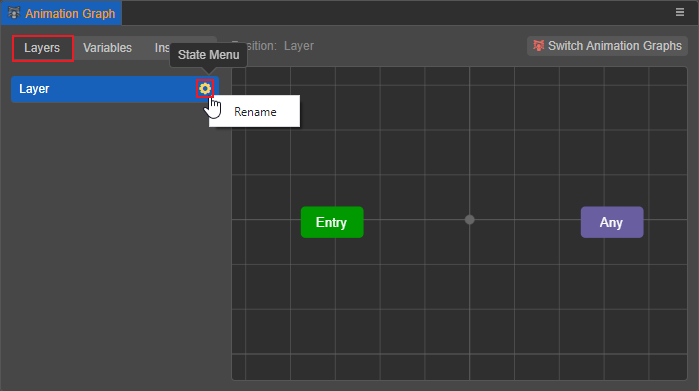
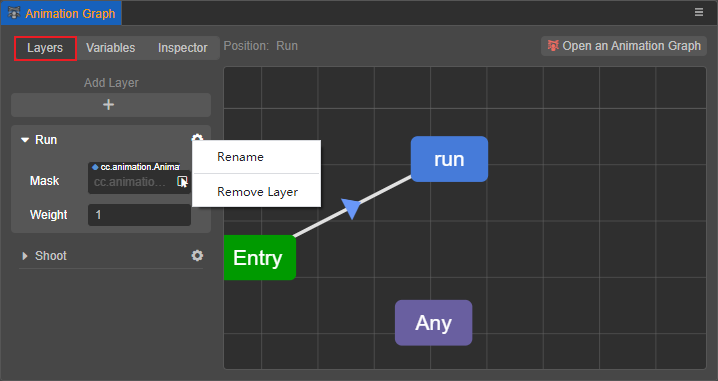
动画遮罩和层级

diff --git a/zh/animation/marionette/animation-graph-layer.md b/zh/animation/marionette/animation-graph-layer.md
@@ -1,40 +1,88 @@
-
 # 动画图层级
 
 动画图可以有多个层级，层级之间同时运行，其上播放的动画效果可以根据层级的配置进行混合。
 
 ## 创建层级
 
-TODO
+![add-layer](animation-graph-panel/add-layer.png)
+
+在动画图中点击 **层级（Layers）** 按钮，点击 ![add layer](animation-graph-panel/btn-add-layer.png) 按钮可以创建新的层级。
+
+## 层级菜单
+
+![Layers](animation-graph-panel/layers.png)
+
+点击层级右侧的齿轮图标用于显示层级菜单。 点击 **重命名（Rename）** 按钮可对动画图层进行重命名，点击 **删除层级（Remove Layer）** 可以删除当前层级。动画图最少需要一个层级。
 
 ## 层级属性
 
-![animation-graph-layer](animation-graph/animation-graph-layer.png)
+| 属性 | 说明 |
+| :-- | :-- |
+| **Mask** | [动画遮罩](animation-mask.md) |
+| **Weight** | 层级权重，用于指定当前层级在和其他层级进行混合时的权重，取值范围为 [0, 1] |
 
 ### 动画遮罩
 
-可以向动画层级指定一个 [动画遮罩](animation-mask.md) 资源。指定后，该层级上的所有动画效果都受到该遮罩的影响。
+从 **资源管理器** 拖拽动画遮罩到动画图窗口的 **遮罩（Mask）** 属性或者在层级中选中 **遮罩（Mask）** 属性都可以将遮罩赋予该层级。
+
+![select](animation-mask/select.png)
+
+指定后，该层级上的所有动画效果都受到该遮罩的影响。
+
 例如，可以向层级指定一个仅保留上半身骨骼、下半身骨骼都被禁用的动画遮罩，则该层级的动画效果将仅作用于上半身。
 
 ### 层级权重
 
 每一层级的动画效果将以一定比例与前面层级的动画效果进行混合，该混合的比例由层级的权重属性指定。
-`0` 代表完全使用前面层级的动画效果，`1` 代表该层级完全覆盖前面层级的动画效果，当处于 `(0-1)` 时则进行适当的混合。
+
+0 代表完全使用前面层级的动画效果，1 代表该层级完全覆盖前面层级的动画效果，当处于 [0,1] 时则进行适当的混合。
 
 层级的混合仅会混合那些未被动画遮罩禁用的骨骼。例如，若层级 1 启用了某骨骼，但其后的层级 2 利用动画遮罩禁用了该骨骼，则
 无论层级 2 权重指定为多少，该骨骼都仅全量播放层级 1 的动画效果。
 
 也可以在代码中通过 `AnimationController.prototype.setLayerWeight` 动态修改层级权重。
 
+## 菜单
+
+在层级内空白处点击鼠标右键可以打开层级菜单。
+
+![menu](animation-layer/open-layer-menu.png)
+
+- **添加状态 - 动画剪辑**：该菜单会在层级上创建一个默认为 Clip Motion 的动画剪辑状态，之后可以在左侧的 **属性** 面板内指定动画剪辑的资源。 相关操作方式请参考 [设置状态属性](animation-graph-basics.md##%E5%88%9B%E5%BB%BA%E7%8A%B6%E6%80%81)：
+
+  ![create animation clip](animation-layer/create-animation-clip.png)
+
+- **添加状态 - 一维混合**：该菜单会在层级上创建一个默认为 Blend 1D 的一维混合。双击可以进行编辑。相关操作方式请参考 [一维动画混合](animation-graph-basics.md#%E4%B8%80%E7%BB%B4%E5%8A%A8%E7%94%BB%E6%B7%B7%E5%90%88)：
+
+  ![create 1d blend](animation-layer/create-1d-blend.png)
+
+- **添加状态 - 二维混合**：该菜单会在层级上创建一个默认为 Blend 2D 的二维混合。双击可以进行编辑。相关操作方式请参考 [二维动画混合](animation-graph-basics.md#%E4%BA%8C%E7%BB%B4%E5%8A%A8%E7%94%BB%E6%B7%B7%E5%90%88)：
+
+  ![create 1d blend](animation-layer/create-2d-blend.png)
+
+- **添加子状态机**：该菜单会在层级上创建一个默认为 State Machine 的子状态机，双击可以进行编辑。相关操作方式请参考 [子状态机](animation-graph-basics.md#%E5%AD%90%E7%8A%B6%E6%80%81%E6%9C%BA)：
+
+   ![create 1d blend](animation-layer/create-sub-machine.png)
+
+- **添加空状态**：该菜单会在层级上创建一个默认为 Empty 的空状态，请参考下文 **空状态** 部分获取更多信息。
+
+  ![craete empty](animation-layer/create-empty.png)
+
+- **返回中心视角**：该菜单会将层级的视角返回到层级的中心。
+
 ## 空状态
 
 很多情况下，一种需求是：仅在特定情况下，启用某一层级；其它情况下都使此层级不生效。
 
-对于这种需求，可以使用 _空状态_。 _空状态_ 可以看作是一种动画，它的动画效果就是前面层级的动画效果。
+对于这种需求，可以使用 **空状态**。 **空状态** 可以看作是一种动画，它的动画效果就是前面层级的动画效果。
 
-从 _空状态_ 状态引出的过渡，就相当于前面层级的动画效果逐渐过渡到目标动画。此过渡上可以指定过渡条件、过渡周期。
+从 **空状态** 状态引出的过渡，就相当于前面层级的动画效果逐渐过渡到目标动画。此过渡上可以指定过渡条件、过渡周期。
 但过渡周期仅可指定为绝对的（以秒为单位）。
 
-引出到 _空状态_ 状态的过渡，就相当于源头动画的动画效果在不断衰减，直到过渡完成，相当于当前层级被禁用。
+引出到 **空状态** 状态的过渡，就相当于源头动画的动画效果在不断衰减，直到过渡完成，相当于当前层级被禁用。
 
-![passthrough-state](animation-graph/passthrough-state.png)
+如在下图的示例中，当 **Empty** 仅在触发器 **trigger** 被触发后才会过渡到 **run_shoot** 状态，而在 **Empty** 的情况下，该层级不会影响到签名层级的动画效果。
+
+![layer](animation-graph/empty-state.png)
+
+![layer](animation-graph/transit-empty-state.png)

diff --git a/zh/animation/marionette/animation-mask.md b/zh/animation/marionette/animation-mask.md
@@ -1,43 +1,55 @@
 # 动画遮罩资源
 
-动画遮罩用于屏蔽指定骨骼上的动画效果。
+动画遮罩是一种资源（Asset），用在动画图层级中，用于屏蔽指定骨骼上的动画效果。
+
+常见的应用场景如上下半身分开播放动画，如制作一个在射击时行走的动画，可以通过动画遮罩实现。
 
 ## 创建
 
-在 **资源管理器** 点击左上方的 **+** 按钮，然后选择 **动画遮罩（Animation Mask**：
+在 **资源管理器** 点击左上方的 **+** 按钮，然后选择 **动画遮罩（Animation Mask）**：
 
 ![create-animation-mask](animation-graph/create-animation-graph.png)
 
-即可创建一个默认名为 `Animation Mask` 的动画遮罩资源：
+即可创建一个默认名为 **Animation Mask** 的动画遮罩资源：
 
 ![animation-mask-asset](animation-graph/animation-graph-asset.png)
 
-## 编辑
+## 编辑遮罩
 
-选中动画遮罩资源后，可在属性检查器中对动画遮罩资源进行编辑。
+在 **资源管理器** 中选中动画遮罩资源后，可在 **属性检查器** 中对动画遮罩资源进行编辑。
+
+![inspector](animation-mask/inspector.png)
 
 ### 骨骼导入
 
 在一切开始前，需要确定选择骨骼遮罩影响的所有骨骼。
 
-在属性检查器上，点击 `导入骨骼结点`，在弹出的预制体选择对话框中，我们选择骨骼层次所在的预制体。一般情况下，他就是目标模型所在模型文件（FBX、glTF）中导入的预制体，且通常只有一个。
+在 **属性检查器** 上，点击 ![import](animation-mask/import.png) 按钮，在弹出的预制体选择对话框中，我们选择骨骼层次所在的预制体。一般情况下，他就是目标模型所在模型文件（FBX、glTF）中导入的预制体，且通常只有一个。
 
-![import-bones](animation-mask/import-bones.png)。
+![import mask](animation-mask/import-skeleton.png)
 
 选定后，预制体中所包含的所有骨骼将列入到骨骼遮罩资源中：
 
-![bones-imported](animation-mask/bones-imported.png)。
+![bones-imported](animation-mask/import-finish.png)。
 
-也可以通过“情况所有节点”来清楚已导入的所有骨骼。
+也可以通过点击 ![clear](animation-mask/clear.png) 来清除已导入的所有骨骼。
 
 ### 骨骼启用与禁用
 
 当希望某骨骼上的动画效果被禁用时，确保其前方的勾选框保持未勾选状态即可。
 
-注意，子骨骼和父级骨骼直接的启用/禁用关系是互不影响的。也就是说，即使父级骨骼被禁用，子骨骼依然可以生效。
+> **注意**：子骨骼和父级骨骼直接的启用/禁用关系是互不影响的。也就是说，即使父级骨骼被禁用，子骨骼依然可以生效。
 
-可以通过按住 Alt 键来递归地启用/禁用指定骨骼和和它所有的子骨骼。
+在导入的骨骼中可以通过点击骨骼名字旁边的单选框 ![checkbox](animation-mask/checkbox.png) 来选中或取消。
 
-## 应用
+通过点击 ![expand](animation-mask/expand.png) 可以展开/隐藏子骨骼。
 
-动画遮罩资源应用于动画图中，见 [动画图层级](animation-graph-layer.md)。
+按住 <kbd>Alt</kbd> 并点击 ![checkbox](animation-mask/checkbox.png) 单选框可以同时选中/取消当前骨骼以及其子骨骼。
+
+遮罩所在层级的动画，如其骨骼未被选中，则所有跟该骨骼有关的动画不会播放。在下图中，**Bip001 Pelvis** 未被选中，则在当前层级中，该骨骼不会受到该层级的任何动画影响。
+
+![check](animation-mask/check-skeleton.png)
+
+## 示例
+
+完整示例请参考（[GitHub](https://github.com/cocos-creator/MarionetteDemo)|[Gitee](https://gitee.com/mirrors_cocos-creator/MarionetteDemo)）。

diff --git a/zh/SUMMARY.md b/zh/SUMMARY.md
@@ -242,8 +242,10 @@
         - [动画图资源](animation/marionette/animation-graph.md)
         - [动画控制器组件参考](animation/marionette/animation-controller.md)
         - [动画图面板](animation/marionette/animation-graph-panel.md)
+        - [动画图层级](animation/marionette/animation-graph-layer.md)
         - [动画状态机](animation/marionette/animation-graph-basics.md)
         - [状态过渡](animation/marionette/state-transition.md)
+        - [动画遮罩资源](animation/marionette/animation-mask.md)
 
 - [音频系统](audio-system/overview.md)
     - [AudioSource 组件参考](audio-system/audiosource.md)

diff --git a/zh/animation/marionette/animation-graph-panel.md b/zh/animation/marionette/animation-graph-panel.md
@@ -16,9 +16,11 @@
 
 ## 层级（Layers）
 
-该分页主要用于创建、查看和编辑动画图的层级，每个层级分别由一个状态机控制，但目前仅支持一个动画图层。点击层级右侧的齿轮图标按钮可对动画图层进行重命名：
+该分页主要用于创建、查看和编辑动画图的层级，每个层级分别由一个状态机控制，点击 **Layers** 按钮可以进入层级编辑状态。
 
 ![Layers](animation-graph-panel/layers.png)
+
+更多关于层级的信息请参考 [动画图层级](animation-graph-layer.md)。
 
 ## 网格布局区域
 
